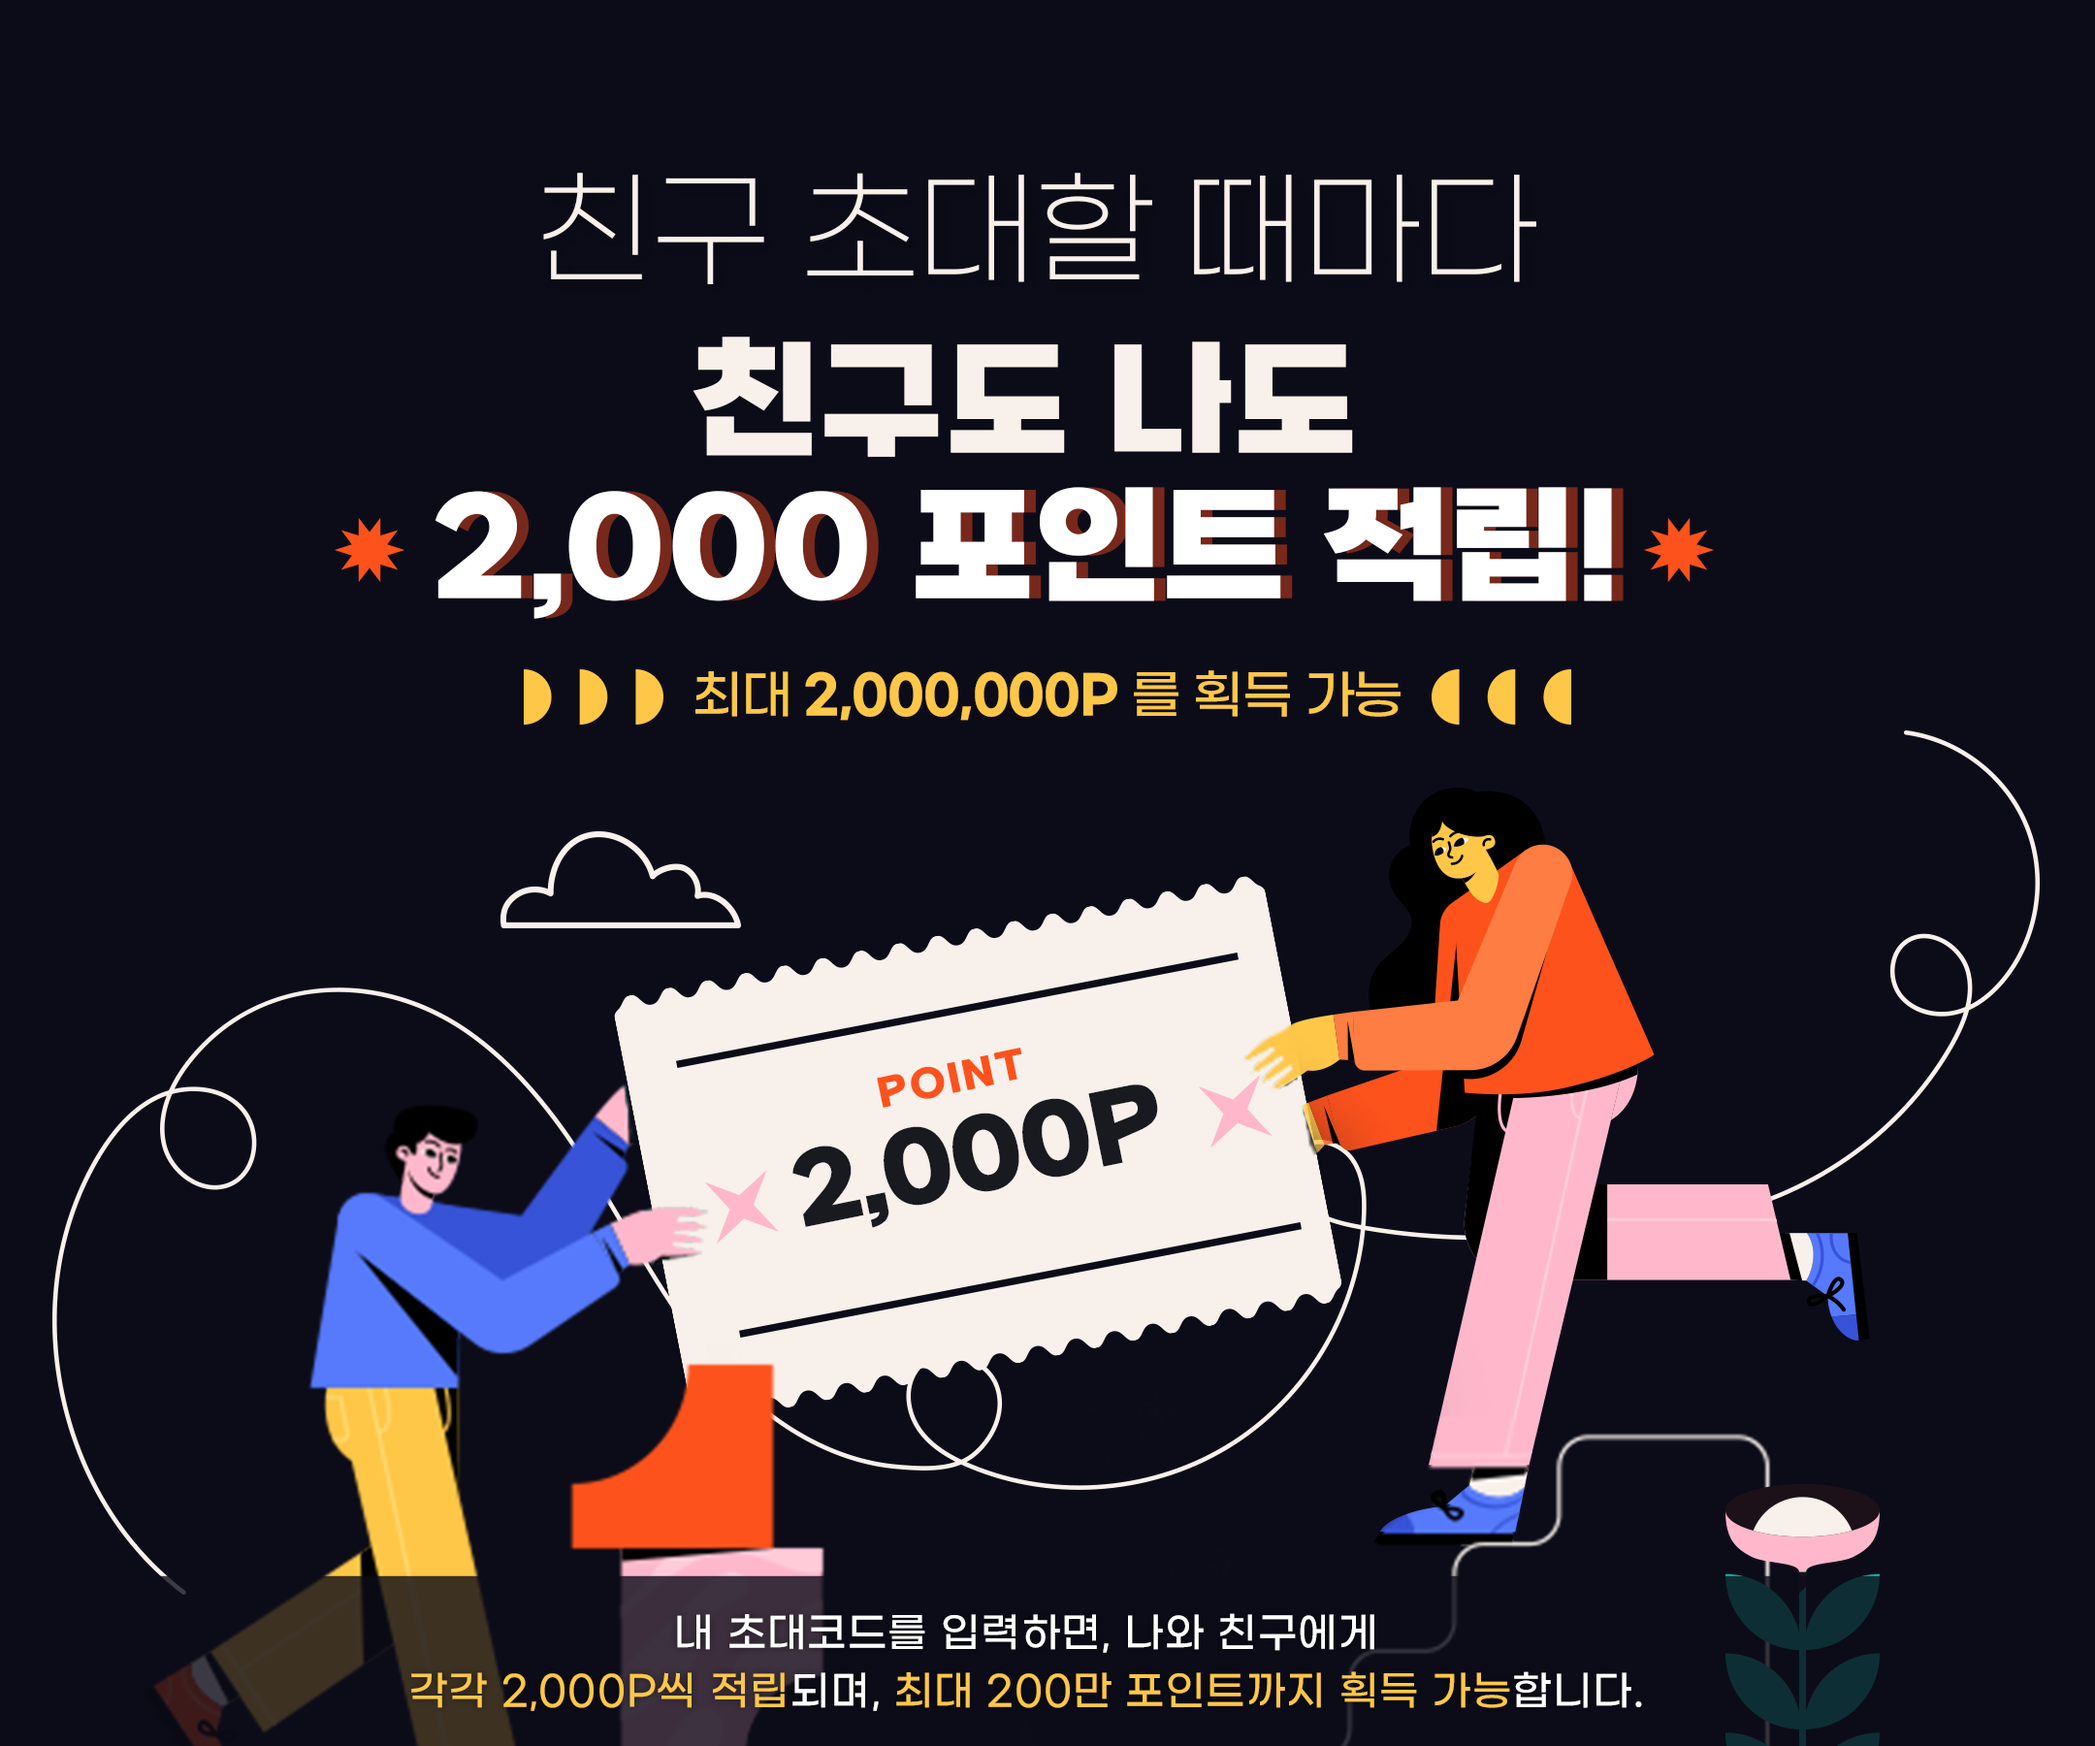
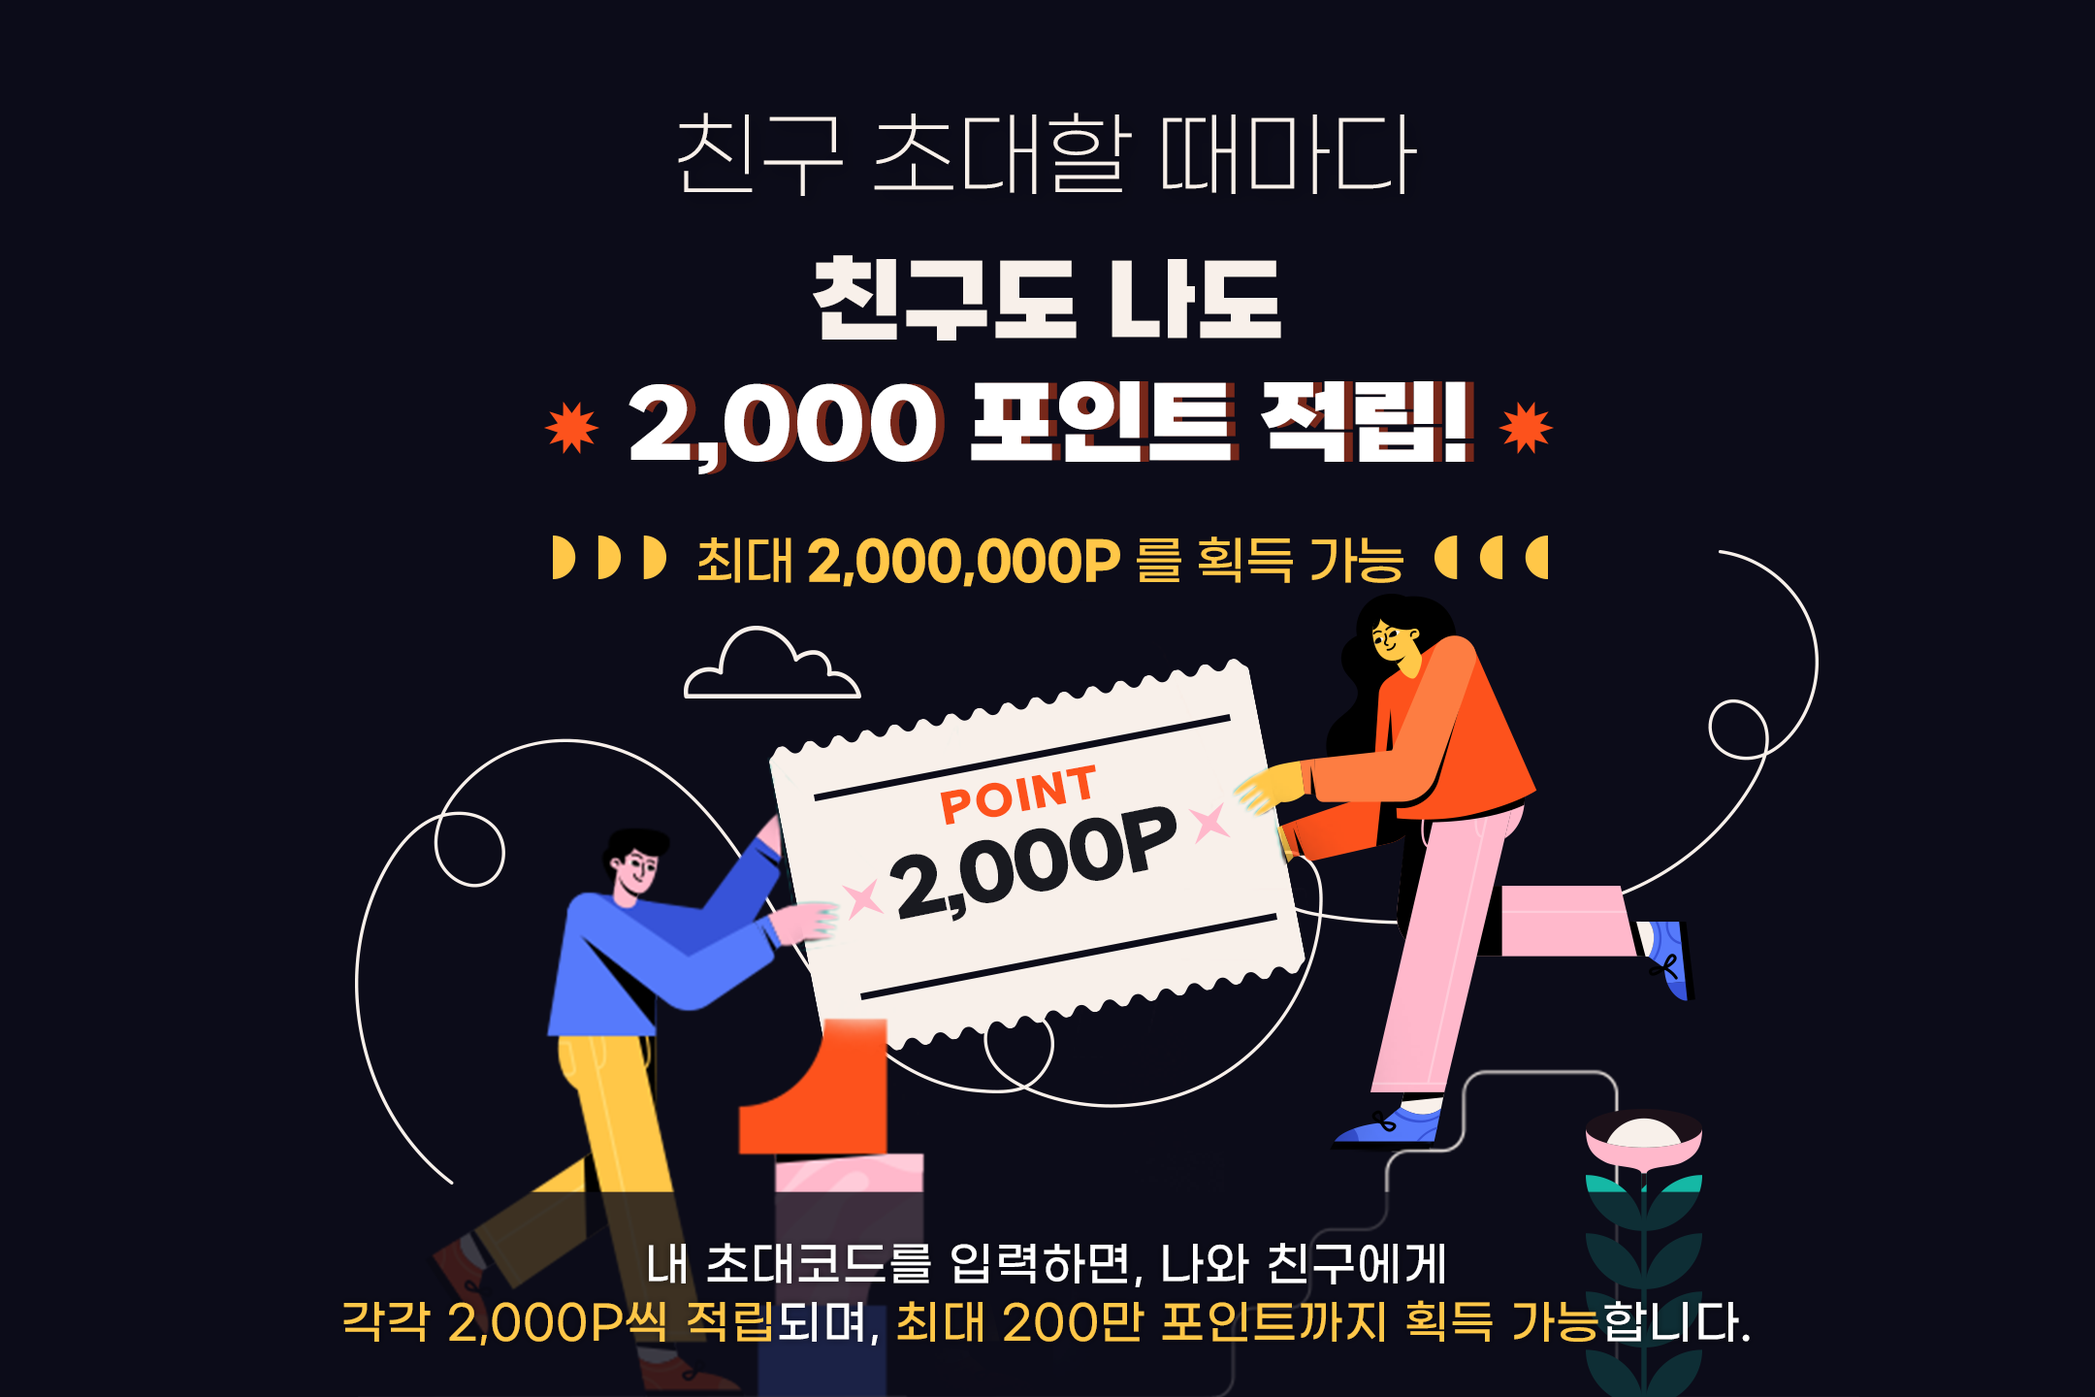
update

diff --git a/clipdown/2024/webview/cashmate/event_list.html b/clipdown/2024/webview/cashmate/event_list.html
@@ -1,0 +1,178 @@
+<!DOCTYPE html>
+<html lang="ko">
+<head>
+    <meta http-equiv="Content-Type" content="text/html; charset=utf-8">		
+    <meta http-equiv="X-UA-Compatible" content="IE=edge,chrome=1">		
+    <meta name="apple-mobile-web-app-capable" content="yes">
+    <meta name="apple-mobile-web-app-status-bar-style" content="white">
+    <meta name="viewport" content="width=device-width, initial-scale=1.0, user-scalable=no">
+    <meta name="format-detection" content="telephone=no" />
+    <title>[APP] WebView 캐시메이트 - 이벤트 리스트 페이지 </title>
+    <link href="https://cdn.jsdelivr.net/npm/bootstrap@5.1.2/dist/css/bootstrap.min.css" rel="stylesheet" integrity="sha384-uWxY/CJNBR+1zjPWmfnSnVxwRheevXITnMqoEIeG1LJrdI0GlVs/9cVSyPYXdcSF" crossorigin="anonymous">
+    <link rel='stylesheet' href='./resource/css/common.css' type='text/css'>
+    <link rel='stylesheet' href='./resource/css/style_cashmate.css' type='text/css'>
+
+    <!-- IE8 에서 HTML5 요소와 미디어 쿼리를 위한 HTML5 shim 와 Respond.js -->
+    <!-- WARNING: Respond.js 는 당신이 file:// 을 통해 페이지를 볼 때는 동작하지 않습니다. -->
+    <!--[if lt IE 9]>
+      <script src="https://oss.maxcdn.com/html5shiv/3.7.2/html5shiv.min.js"></script>
+      <script src="https://oss.maxcdn.com/respond/1.4.2/respond.min.js"></script>
+    <![endif]-->
+</head>
+<body>
+    <div class="wrap webview_cashmate dark">
+        <div class="container">
+            <section class="section section_event section_mb">
+                <article class="contents contents_top">
+                    <div class="guide_noti_box">
+                        <span class="icon_noti">
+                            <svg xmlns="http://www.w3.org/2000/svg" width="18" height="18" viewBox="0 0 18 18">
+                                <g id="icon_noti" transform="translate(-1.25 -1.25)">
+                                  <path id="패스_626" data-name="패스 626" d="M1.25,6.064A4.814,4.814,0,0,1,6.064,1.25h8.372A4.814,4.814,0,0,1,19.25,6.064v8.372a4.814,4.814,0,0,1-4.814,4.814H6.064A4.814,4.814,0,0,1,1.25,14.436ZM6.064,2.506A3.558,3.558,0,0,0,2.506,6.064v8.372a3.558,3.558,0,0,0,3.558,3.558h8.372a3.558,3.558,0,0,0,3.558-3.558V6.064a3.558,3.558,0,0,0-3.558-3.558Z" fill="#9e9ea5" fill-rule="evenodd"/>
+                                  <path id="패스_627" data-name="패스 627" d="M12.5,10.25a.75.75,0,0,1,.75.75v6a.75.75,0,0,1-1.5,0V11A.75.75,0,0,1,12.5,10.25Z" transform="translate(-1.837 -2.25)" fill="#9e9ea5" fill-rule="evenodd"/>
+                                  <path id="패스_628" data-name="패스 628" d="M13.25,11a.75.75,0,0,1-.75.75h-2a.75.75,0,0,1,0-1.5h2A.75.75,0,0,1,13.25,11Z" transform="translate(-1.653 -1.575)" fill="#9e9ea5" fill-rule="evenodd"/>
+                                  <path id="패스_629" data-name="패스 629" d="M12.5,6.25a.75.75,0,0,1,.75.75V8a.75.75,0,0,1-1.5,0V7A.75.75,0,0,1,12.5,6.25Z" transform="translate(-1.837 -0.921)" fill="#9e9ea5" fill-rule="evenodd"/>
+                                </g>
+                            </svg>                                                  
+                        </span>
+                        <span class="noti_text">포인트가 와르르! <br />이벤트에 참여해 보세요</span>
+                    </div>
+                </article>
+                <article class="contents">
+                    <div class="content content_event">
+                        <div class="content_list">
+                            <div class="row-contents">
+                                <div class="col-2">
+                                    <div class="item_event">
+                                        <span class="event_date">이벤트 기간 : <span class="font_num">무제한</span></span>
+                                        <div class="card_event">
+                                            <a href="#" class="link_card">
+                                                <div class="event_title">
+                                                    <h3>
+                                                        클립다운 앱 설치하면<br />
+                                                        <span class="font_num point-color weight-600_bold">2,000 포인트 바로 지급!</span>
+                                                    </h3>
+                                                    <span class="event_desc">* 1회만 적립 가능합니다.</span>
+                                                </div>
+                                                <div class="event_img">
+                                                    <img src="./resource/images/img_event_install-app.png" alt="">
+                                                </div> 
+                                            </a>                                               
+                                        </div>
+                                    </div>
+                                </div>
+                                <div class="col-2">
+                                    <div class="item_event">
+                                        <span class="event_date">이벤트 기간 : <span class="font_num">무제한</span></span>
+                                        <div class="card_event">
+                                            <a href="#" class="link_card">
+                                                <div class="event_title">
+                                                    <h3>
+                                                        클립다운을 널리 알려주세요!<br />
+                                                        <span class="font_num point-color">친구 초대 시 각각 2,000P</span>
+                                                    </h3>
+                                                </div>
+                                                <div class="event_img">
+                                                    <img src="./resource/images/img_event_invite.png" alt="">
+                                                </div> 
+                                            </a>                                               
+                                        </div>
+                                    </div>
+                                </div>
+                            </div>
+                        </div>
+                    </div> 
+                </article>
+            </section>
+        </div>
+
+    </div>
+    <script src="https://code.jquery.com/jquery-3.6.0.js"></script>
+    <script src="https://code.jquery.com/ui/1.13.1/jquery-ui.js"></script>
+    <script src="./resource/js/common_cashmate.js"></script>
+    <script>
+        // PLUGIN
+        const InfiniteScroll = function (element) {
+        element = typeof element == 'object' ? element : document.querySelector( element );
+        const elementTarget = document.querySelector( element.dataset.list ) || window;
+        const eventName = 'infiniteScroll';
+        const event = new Event( eventName );
+        let isLoading = false;
+        const treshold = element.dataset.treshold || '50%';
+        
+        this.thrPc = ( parseFloat( treshold ) / 100 );
+
+        const verify = () => {
+            if ( isLoading ) return;
+            
+            const treshold = this.thrPc * elementTarget.offsetHeight;
+            const { scrollHeight, scrollTop, offsetHeight } = elementTarget;
+            const infiniteHeight = element.offsetHeight;
+            const distanceFromInfinite = scrollHeight - scrollTop - offsetHeight - treshold - infiniteHeight;
+            
+            if ( distanceFromInfinite < 0 ) {
+            show();
+            element.dispatchEvent( event );
+            }
+        }
+
+        (function init () {
+            if ( element ) {
+            if ( isImmediateCheck() ) {
+                show();
+                window.addEventListener( 'load', () => element.dispatchEvent( event ) );
+            }
+            elementTarget.addEventListener( 'scroll', verify, { passive: true } );
+            window.addEventListener( 'resize', verify );
+            }
+        })();
+
+        function show () {
+            isLoading = true;
+            element.classList.add('active');
+        }
+
+        function hide () {
+            isLoading = false;
+            element.classList.remove('active');
+        }
+
+        function isImmediateCheck () {
+            var immediateCheck = element.dataset.immediateCheck;
+            return immediateCheck === 'true' || immediateCheck === '';
+        }
+
+        // Public methods
+        this.complete = function () {
+            hide();
+        };
+
+        this.stop = function () {
+            hide();
+            elementTarget.removeEventListener( 'scroll', verify );
+            elementTarget.removeEventListener( 'resize', verify );
+            element.style.display = 'none';
+            element.innerHTML = '';
+        };
+
+        this.on = function ( event, callback ) {
+            if ( event == eventName) {
+            element.addEventListener( event, callback );
+            } else {
+            console.error( 'This event does not exist' );
+            }
+        };
+        }
+
+        // EXAMPLE
+        // -------
+        var list = document.querySelector('.category_list li'),
+            nextItem = 1,
+            total = 100;
+
+        var infiniteScroll = new InfiniteScroll('.infinite_scroll');
+        infiniteScroll.on( 'infiniteScroll', loadData );
+    </script>
+    
+</body>
+</html>

diff --git a/clipdown/2024/webview/cashmate/resource/css/style_cashmate.css b/clipdown/2024/webview/cashmate/resource/css/style_cashmate.css
@@ -443,7 +443,7 @@ svg{max-width: 100%; width: 100%; height: 100%;}
 
 /* 클립다운 PC Web Dark Style */
 .webview_cashmate.dark div{color: #fff;}
-.webview_cashmate.dark{background: #20222B;}
+.webview_cashmate.dark{background: #20222B; height: initial;}
 .webview_cashmate.dark .section .contents{display: block;}
 .webview_cashmate.dark .section .header_title{border-bottom: 1px solid #333542;}
 .webview_cashmate.dark .section .header_title h1{color: #fff;}
@@ -483,6 +483,12 @@ svg{max-width: 100%; width: 100%; height: 100%;}
 .webview_cashmate.dark .content_inquiry .content_item  .content_list .list_item:hover{background: #20222B; border: 1px solid #9E9EA5;}
 .webview_cashmate.dark .content_inquiry .content_item  .content_list .info_box .list_item:hover{background: #272936; border: 1px solid #353745;}
 .webview_cashmate.dark .content_inquiry .content_item  .content_list .info_box p{color: #fff; line-height: 2;}
+/* 0411 PC dark 모드일때 이벤트 상세페이지 - 친구초대 */
+.webview_cashmate.dark .section_invite .content_top, .webview_cashmate.dark .section_invite .content_middle {position: relative; max-width: 640px; margin: 0 auto;}
+.webview_cashmate.dark .section_invite .content_item{padding-bottom: 40px; margin-bottom: 0;}
+.webview_cashmate.dark .section_invite .content_item div{color: #333;}
+.webview_cashmate.dark .content_event .item_event{padding: 0 20px;}
+.webview_cashmate.dark .section_invite .input_group.code_register .form_control{background: #fff; color: #333;}
 
 
 /* 

diff --git a/clipdown/2024/webview/cashmate/invitation.html b/clipdown/2024/webview/cashmate/invitation.html
@@ -19,7 +19,7 @@
     <![endif]-->
 </head>
 <body>
-    <div class="wrap webview_cashmate">
+    <div class="wrap webview_cashmate dark">
         <div class="container">
             <section class="section section_invite">
                 <article class="contents contents_invite">
